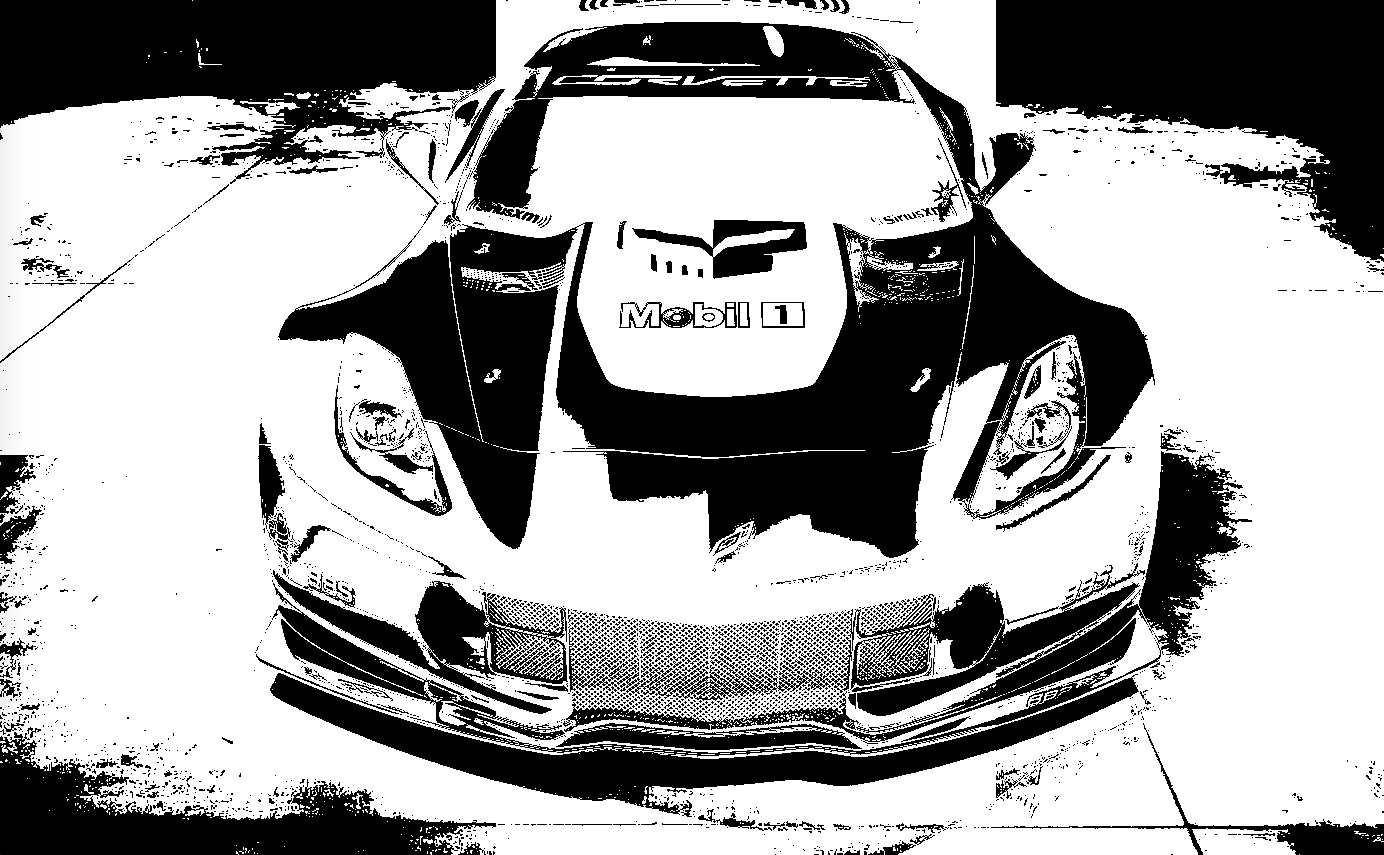
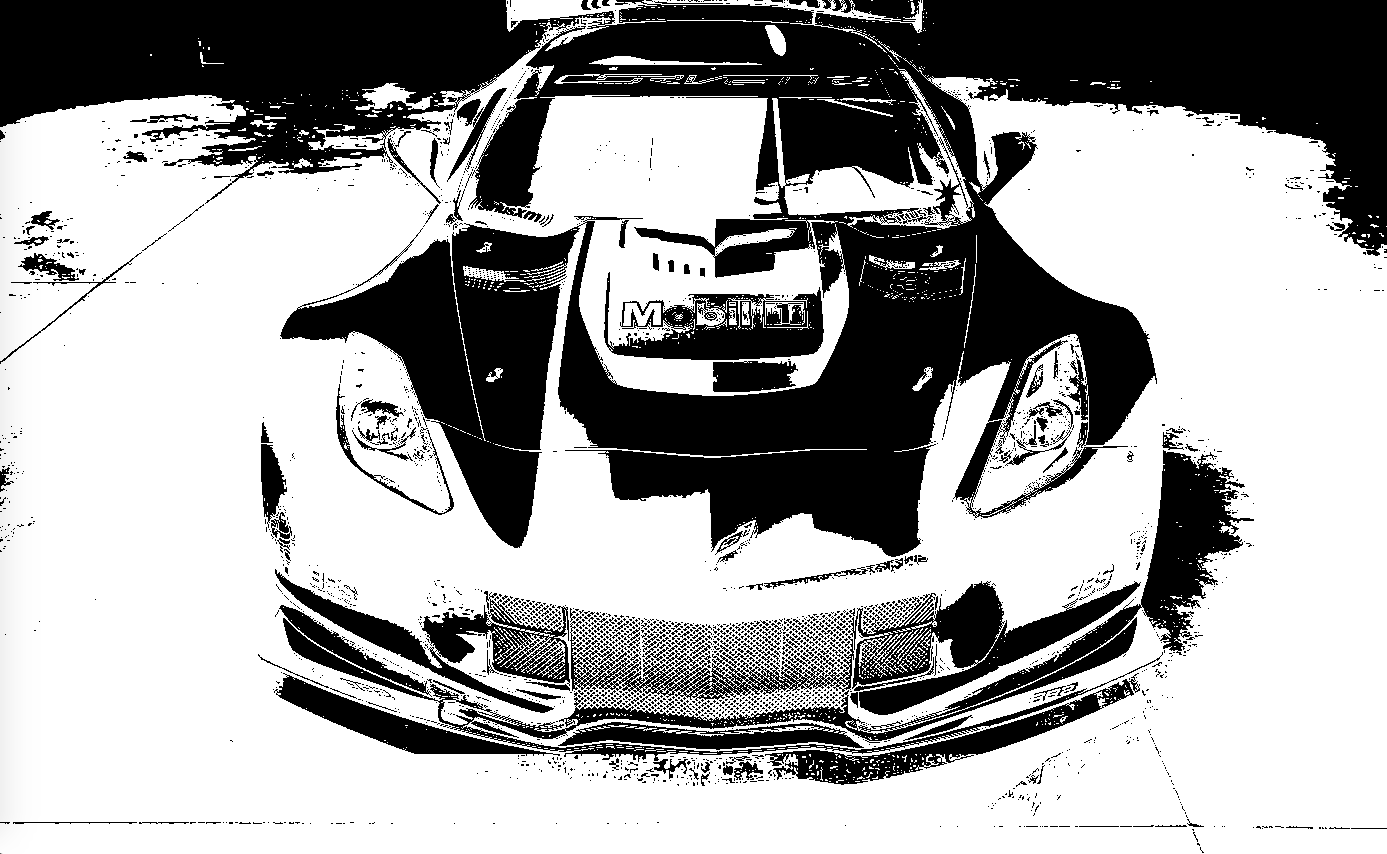
test

diff --git a/C-PhotoDeal_level2_APP/C-PhotoDeal_level2/main.cpp b/C-PhotoDeal_level2_APP/C-PhotoDeal_level2/main.cpp
@@ -24,7 +24,7 @@ int main(int argc, const char * argv[]) {
     
 //    numberPhoto::sobelCanny(ColorImage, width, height);
 //    numberPhoto::otsuBinary(ColorImage, width, height, false, 80, 80);
-    numberPhoto::method_two(ColorImage, width, height, false, 500, 500, 1);
+    numberPhoto::method_two(ColorImage, width, height, false, 800, 800, 1);
     
     
     return 0;
